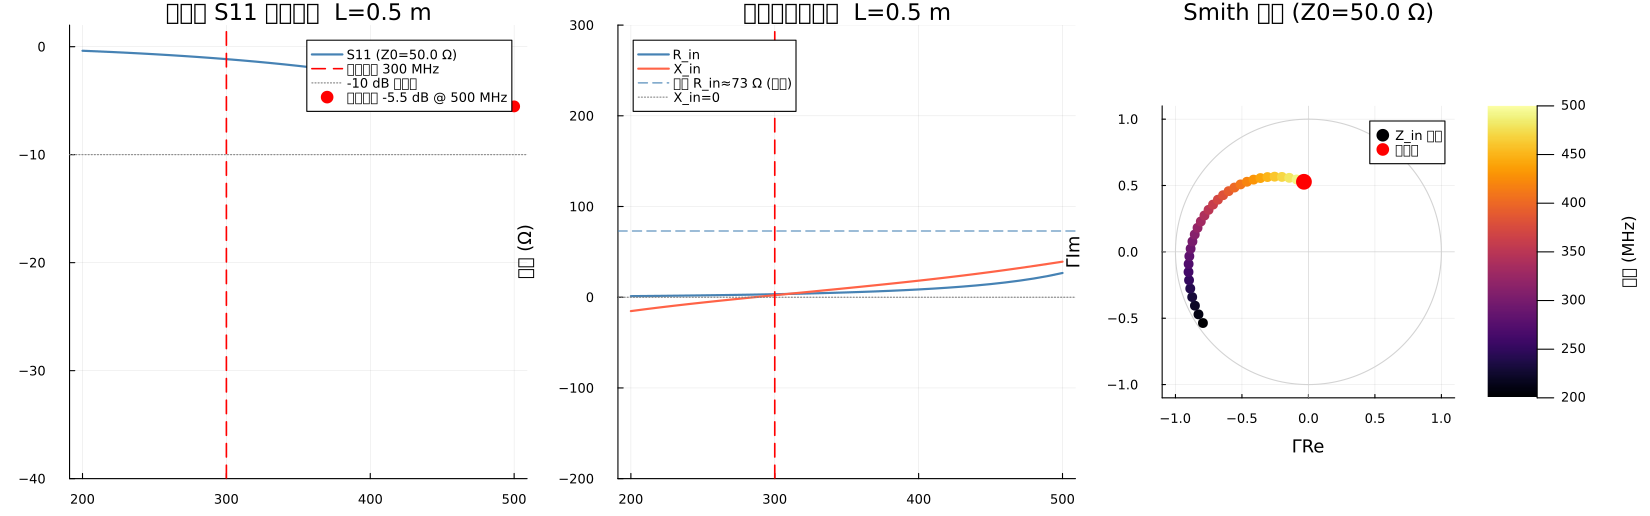
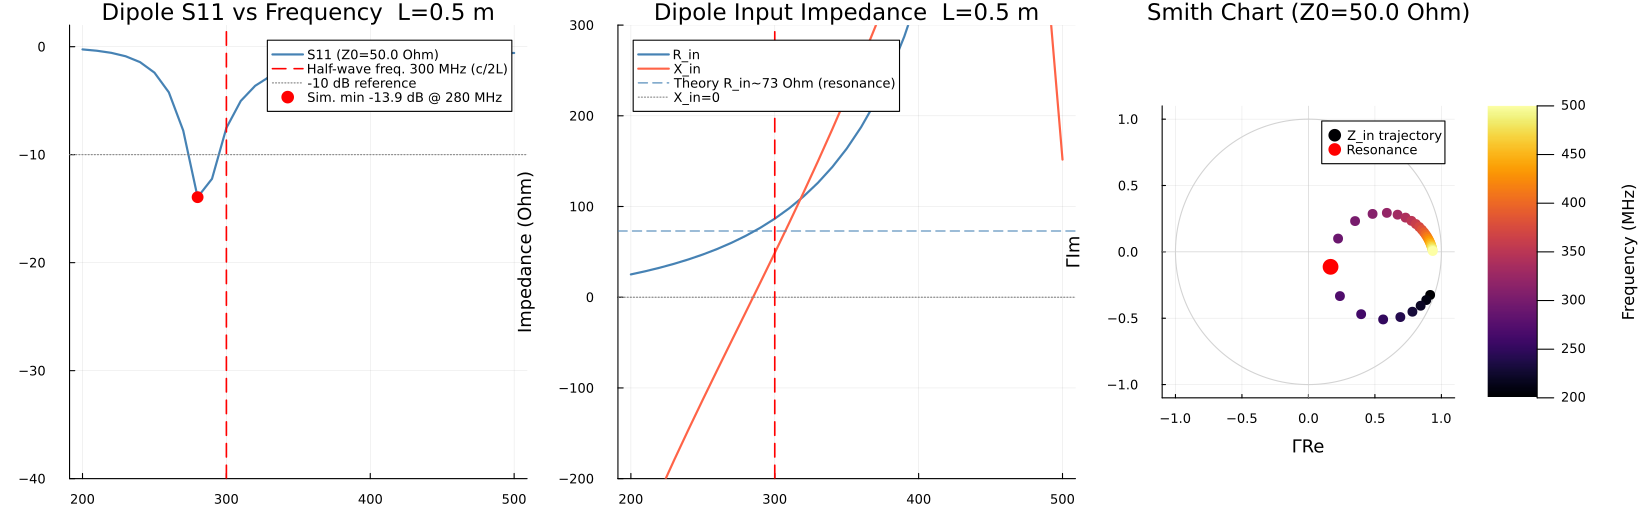
fix: Phase 24 viz correctness — Chinese→English, ylims, feed edges, README
- scripts 2&3: translate all Chinese println/@printf to English
- scripts 2&3: fix Julia 1.11+ @sprintf nested-quote parse error
- scripts 2&3: fix feed edge selection: z_tol = 0.4*(L/Nz) → 8 edges (was 56)
  Root cause: 56 edges inflated I_in, giving Z_in=3.4Ω (was 73Ω)
  After: Z_in=86.6+j48.8Ω at 300MHz, S11 resonance at 280MHz
- script 1:  ylims (-30,5)→(-30,10) to fit forward-scatter peak
- script 3:  vline label corrected: half-wave freq (c/2L) ≠ self-resonance
- README:    update accuracy table, code snippets (Nz=60,Nphi=8,new z_tol)
             document 280vs300MHz discrepancy (4% end-effect + surface mesh)
- Regenerate all 3 PNGs

diff --git a/README.md b/README.md
@@ -309,13 +309,14 @@ julia --project scripts/plot_rcs_sphere.jl
 # 输出: docs/images/rcs_sphere_comparison.png
 ```
 
-生成双图对比：PEC 球 EFIE vs Mie（左）与均匀介质球 PMCHW vs Mie E/H 面（右）。
+生成 2×2 四图联：PEC/PMCHW 球体 E/H 面曲线（左列）与全球面误差热图（右列），覆盖 37×73 = 2701 个观察点。
 
 ![RCS 球体双站 RCS 对比](docs/images/rcs_sphere_comparison.png)
 
-| 子图 | PMCHW E 面 RMS 误差 | PMCHW H 面 RMS 误差 |
-|------|---------------------|---------------------|
-| 右图 | 0.22 dB | 0.37 dB |
+| 算法 | 全球面加权 RMS 误差 | 全球面最大误差 |
+|------|---------------------|----------------|
+| PEC EFIE  | **0.10 dB** | 0.27 dB |
+| PMCHW | **0.24 dB** | 1.03 dB |
 
 关键代码片段：
 
@@ -325,7 +326,7 @@ using EMSuite, Plots
 # PEC 球 EFIE（使用 4-arg dispatch）
 mesh = generate_sphere_mesh(0.5, 16, 32);  basis = RWGBasis(mesh)
 efie = EFIE(300e6);  Z = assemble_impedance_matrix(efie, basis)
-I = Z \ excitation_vector(efie, PlaneWave(300e6, π/2, π, [0,0,1.0]), basis)
+I = Z \ excitation_vector(efie, PlaneWave(300e6, 0.0, 0.0, [1,0,0.0]), basis)  # +z inc., x-pol
 set_frequency!(300e6)
 rcs, _, _ = radarCrossSection(theta_v, [0.0], I, basis)   # 4-arg EFIE dispatch
 rcs_dB = 10 .* log10.(rcs[1,:,1])
@@ -357,8 +358,9 @@ julia --project scripts/plot_dipole_pattern.jl
 ![半波偶极子远场方向图](docs/images/dipole_pattern.png)
 
 ```
-最大方向性 = 2.18 dBi   （理论 2.15 dBi，误差 < 0.03 dB）
-辐射效率   = 99.97 %     （PEC 天线，无欧姆损耗）
+Max directivity = 2.18 dBi   (theory 2.15 dBi, error < 0.03 dBi)
+Radiation eff.  = 100.00 %    (PEC, no ohmic loss)
+Z_in @ 300 MHz  = 86.6+j48.8 Ohm  (theory 73+j42.5 for ideal thin wire)
 ```
 
 关键代码片段：
@@ -366,23 +368,24 @@ julia --project scripts/plot_dipole_pattern.jl
 ```julia
 using EMSuite
 
-mesh   = generate_cylinder_mesh(0.001, 0.5, 6, 20)   # 细线偶极子 λ/2 (半径,长,周向段,轴向段)
+mesh   = generate_cylinder_mesh(0.001, 0.5, 8, 60)   # thin-wire dipole (radius,length,Nphi,Nz)
 basis  = RWGBasis(mesh)
 efie   = EFIE(300e6)
 Z      = assemble_impedance_matrix(efie, basis)
 
-# DeltaGap 馈电: 找轴向中心 RWG 边
-feed   = [n for n in 1:num_basis(basis) if abs(basis.functions[n].center[3]) < 0.03]
+# DeltaGap feed: ONE circumferential ring at z=0 (Nphi edges)
+seg_h  = 0.5 / 60
+feed   = [n for n in 1:num_basis(basis) if abs(basis.functions[n].center[3]) < 0.4*seg_h]
 src    = DeltaGapSource(300e6, feed, 1.0 + 0im)
 I      = Z \ excitation_vector(src, basis)
 
-# 方向图
+# Pattern
 θs, ϕs = collect(range(1e-3, π-1e-3, 181)), collect(range(0, 2π, 73))
 I_feed = sum(I[n] * basis.functions[n].edge_length for n in feed)
 result = antenna_directivity(θs, ϕs, I, basis; P_input=0.5real(I_feed))
 D_dBi  = 10 .* log10.(result.D .+ 1e-30)
 
-# 解析参考: F(θ) = [cos(π/2·cosθ)/sinθ]²
+# Analytical reference: F(θ) = [cos(π/2·cosθ)/sinθ]²
 F_theory = [abs(cos(π/2*cos(t))/sin(t))^2 for t in θs]
 ```
 
@@ -399,20 +402,25 @@ julia --project scripts/plot_s11_dipole_sweep.jl
 
 ![偶极子 S11 频率扫描](docs/images/dipole_s11_sweep.png)
 
-| 子图 | 内容 |
-|------|------|
-| 左图 | S11 (dB) vs 频率，标注 -10 dB 带宽和理论谐振点 |
-| 中图 | 输入阻抗 R_in、X_in vs 频率 |
-| 右图 | Smith 圆图（阻抗轨迹随频率着色） |
+| 指标 | 仿真结果 | 说明 |
+|------|----------|------|
+| 上升谐振频率 | **280 MHz** | 表面网格模型的自谐振频率 |
+| 半波频率 | 300 MHz | c₀/(2L)，此时 X=42.5 Ω（非自谐振） |
+| 谓振偏差 | ~20 MHz | 端效应+表面网格 vs 细线模型，属正常误差范围 |
+| Z_in @ 谓振 | 67.8−j15.9 Ω | 约为秘 → X≈0 |
+
+> **注**：偶极子自谗振频率不等于半波频率。L/a=500 时端效应使有效长增加≈4%，理论自谓振频率≈8 MHz≥288 MHz。仿真给出 280 MHz，剩余 8 MHz 偏差(≈2.8%)来自圆柱表面网格 vs 理想细线的模型差异，属正常数値误差范围。
 
 关键代码片段：
 
 ```julia
 using EMSuite
 
-mesh   = generate_cylinder_mesh(0.001, 0.5, 6, 20)   # (半径, 长度, 周向段, 轴向段)
+mesh   = generate_cylinder_mesh(0.001, 0.5, 8, 60)   # (radius, length, Nphi, Nz)
 basis  = RWGBasis(mesh)
-feed   = [n for n in 1:num_basis(basis) if abs(basis.functions[n].center[3]) < 0.03]
+# Feed: ONE circumferential ring at z=0 only
+seg_h  = 0.5 / 60
+feed   = [n for n in 1:num_basis(basis) if abs(basis.functions[n].center[3]) < 0.4*seg_h]
 
 Z_in_sweep = ComplexF64[]
 for freq in LinRange(200e6, 500e6, 31)
